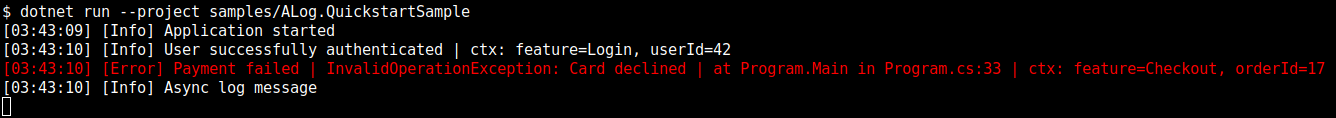
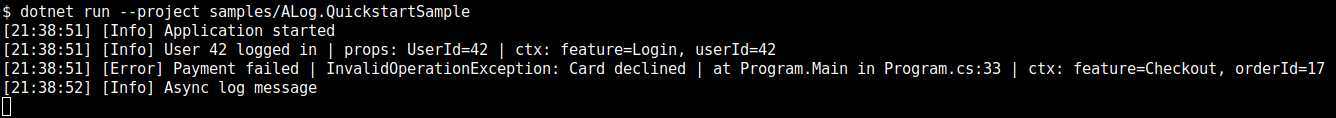
docs: sync Quick Start sample with README and retake assets
Update the Quickstart sample to pretty:false and the Step 2 template
line, align README marker blocks, and refresh console/NDJSON assets
from a real run (XTerm 390 on Xvfb). Restore legacy README anchors.

diff --git a/samples/ALog.QuickstartSample/Program.cs b/samples/ALog.QuickstartSample/Program.cs
@@ -7,7 +7,7 @@ using ALog.Formatters;
 
 var config = new LoggerConfig()
     .AddWriter(new ConsoleLogWriter(useColors: true, formatter: new PlainTextFormatter("HH:mm:ss")))
-    .AddWriter(new FileLogWriter("logs/app.log", new JsonFormatter(pretty: true), maxFileSizeInBytes: 1_048_576)) // 1 MB
+    .AddWriter(new FileLogWriter("logs/app.log", new JsonFormatter(pretty: false), maxFileSizeInBytes: 1_048_576)) // 1 MB
     .SetMinimumLevel(LogLevel.Debug);
 
 Log.Init(config);
@@ -20,7 +20,7 @@ using (Log.BeginScope("userId", 42))
 {
     using (Log.BeginScope("feature", "Login"))
     {
-        Log.Write("User successfully authenticated");
+        Log.Write(LogLevel.Info, "User {UserId} logged in", 42);
     }
 }
 

diff --git a/README.md b/README.md
@@ -132,7 +132,7 @@ using ALog.Formatters;
 
 var config = new LoggerConfig()
     .AddWriter(new ConsoleLogWriter(useColors: true, formatter: new PlainTextFormatter("HH:mm:ss")))
-    .AddWriter(new FileLogWriter("logs/app.log", new JsonFormatter(pretty: false), maxFileSizeInBytes: 1_048_576)) // 1 MB; NDJSON
+    .AddWriter(new FileLogWriter("logs/app.log", new JsonFormatter(pretty: false), maxFileSizeInBytes: 1_048_576)) // 1 MB
     .SetMinimumLevel(LogLevel.Debug);
 
 Log.Init(config);
@@ -178,30 +178,31 @@ Log.Shutdown();
 
 ### Example output
 
-A runnable program for these steps is also at [`samples/ALog.QuickstartSample`](https://github.com/Chookees/ALog/tree/master/samples/ALog.QuickstartSample). Console from Step 1 and Step 2:
+Step 1 and Step 2 together are a complete program: [`samples/ALog.QuickstartSample`](https://github.com/Chookees/ALog/tree/master/samples/ALog.QuickstartSample). Running it prints this to the console:
 
 ```
-[21:15:55] [Info] Application started
-[21:15:55] [Info] User 42 logged in | props: UserId=42 | ctx: feature=Login, userId=42
-[21:15:55] [Error] Payment failed | InvalidOperationException: Card declined | at Program.Main in Program.cs:34 | ctx: feature=Checkout, orderId=17
-[21:15:55] [Info] Async log message
+[21:38:51] [Info] Application started
+[21:38:51] [Info] User 42 logged in | props: UserId=42 | ctx: feature=Login, userId=42
+[21:38:51] [Error] Payment failed | InvalidOperationException: Card declined | at Program.Main in Program.cs:33 | ctx: feature=Checkout, orderId=17
+[21:38:52] [Info] Async log message
 ```
 
-![Console output of the Quick Start sample](https://raw.githubusercontent.com/Chookees/ALog/master/docs/images/quickstart-console.png)
+![Console output of the Quick Start sample from Step 1 and Step 2](https://raw.githubusercontent.com/Chookees/ALog/master/docs/images/quickstart-console.png)
 
-Matching `logs/app.log` lines with `JsonFormatter(pretty: false)` (NDJSON):
+`logs/app.log` of the same run (`JsonFormatter(pretty: false)`, NDJSON):
 
 ```
-{"timestamp":"2026-10-26T21:15:55.2745533Z","level":"Info","message":"Application started","properties":{},"context":{}}
-{"timestamp":"2026-10-26T21:15:55.3134055Z","level":"Info","message":"User 42 logged in","messageTemplate":"User {UserId} logged in","properties":{"UserId":42},"context":{"feature":"Login","userId":42}}
-{"timestamp":"2026-10-26T21:15:55.3147885Z","level":"Error","message":"Payment failed","exception":{"type":"System.InvalidOperationException","message":"Card declined","stackTrace":"   at Program.\u003CMain\u003E$(String[] args) in Program.cs:line 34","source":{"method":"Program.Main","file":"Program.cs","line":34}},"properties":{},"context":{"feature":"Checkout","orderId":17}}
+{"timestamp":"2026-10-26T21:38:51.9431979Z","level":"Info","message":"Application started","properties":{},"context":{}}
+{"timestamp":"2026-10-26T21:38:51.9798504Z","level":"Info","message":"User 42 logged in","messageTemplate":"User {UserId} logged in","properties":{"UserId":42},"context":{"feature":"Login","userId":42}}
+{"timestamp":"2026-10-26T21:38:51.9811263Z","level":"Error","message":"Payment failed","exception":{"type":"System.InvalidOperationException","message":"Card declined","stackTrace":"   at Program.\u003CMain\u003E$(String[] args) in /_/Program.cs:line 33","source":{"method":"Program.Main","file":"Program.cs","line":33}},"properties":{},"context":{"feature":"Checkout","orderId":17}}
+{"timestamp":"2026-10-26T21:38:52.0278365Z","level":"Info","message":"Async log message","properties":{},"context":{}}
 ```
 
 Pretty form of the template line (display only — do not write a file this way):
 
 ```json
 {
-  "timestamp": "2026-10-26T21:15:55.3134055Z",
+  "timestamp": "2026-10-26T21:38:51.9798504Z",
   "level": "Info",
   "message": "User 42 logged in",
   "messageTemplate": "User {UserId} logged in",
@@ -214,6 +215,8 @@ Pretty form of the template line (display only — do not write a file this way)
   }
 }
 ```
+
+Both come from a real run of the sample, unedited.
 
 ### Step 3: Background Queue (Optional)
 
@@ -323,6 +326,7 @@ Catalog codes (some lines include the code text; others are identified only in s
 
 ---
 
+<a id="limitations"></a>
 ## Known issues and limitations
 
 ### SQL `tableName`
@@ -349,6 +353,7 @@ Catalog codes (some lines include the code text; others are identified only in s
 - **When it happens:** Credentials or endpoints reject the request.
 - **Workaround:** Fix credentials/endpoints; watch stderr / SelfLog.
 
+<a id="observations-during-testing"></a>
 ### Silent loss: flush I/O failure (ENOSPC / EIO)
 
 - **Symptom:** Buffered lines of a failed flush are gone; stderr gets one message per failed flush; those events still count as written.
@@ -426,6 +431,7 @@ If you pass your own `HttpClient` to `HttpLogWriter` or `AzureLogWriter`, its ha
 
 Namespace: `ALog.Formatters`. Config-level `SetFormatter` applies only to writers that do not already have a formatter (single format pass).
 
+<a id="console-output"></a>
 ### Console and plain-text line shape
 
 ALog writes to the console only when `ALog:Console:Enabled` is `true` (or you add `ConsoleLogWriter` in code). An exception shares that line. The form is `Type: Message`, then inner exceptions, then the source frame. Types in `System.*` use the short name; every other type keeps its namespace. A thrown exception names the application frame:
